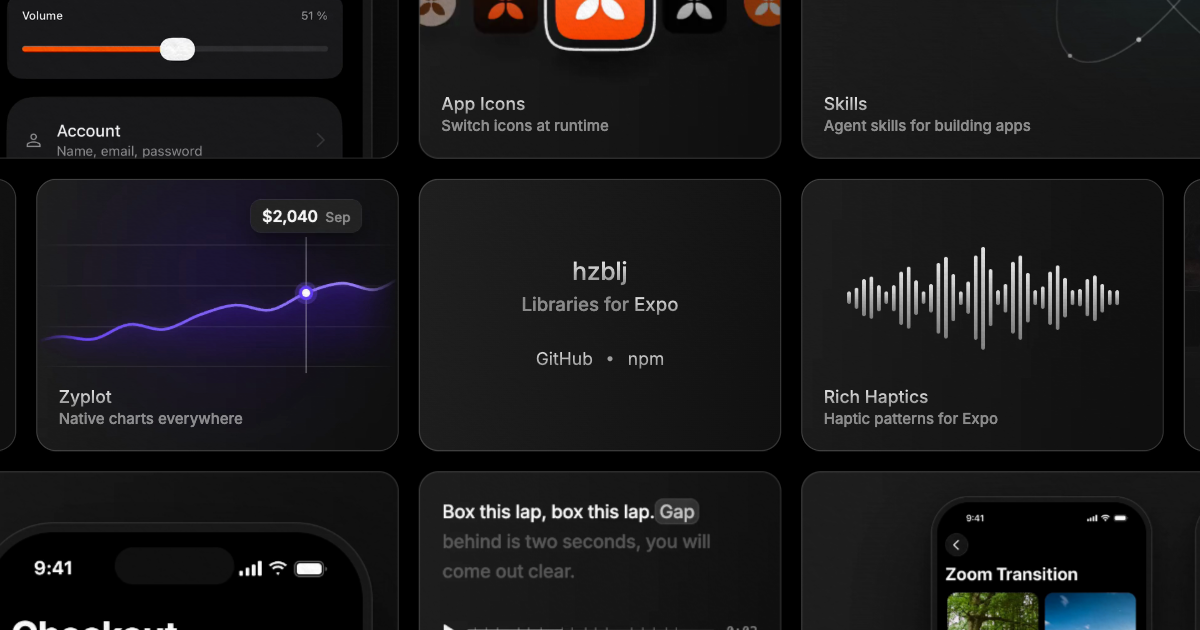
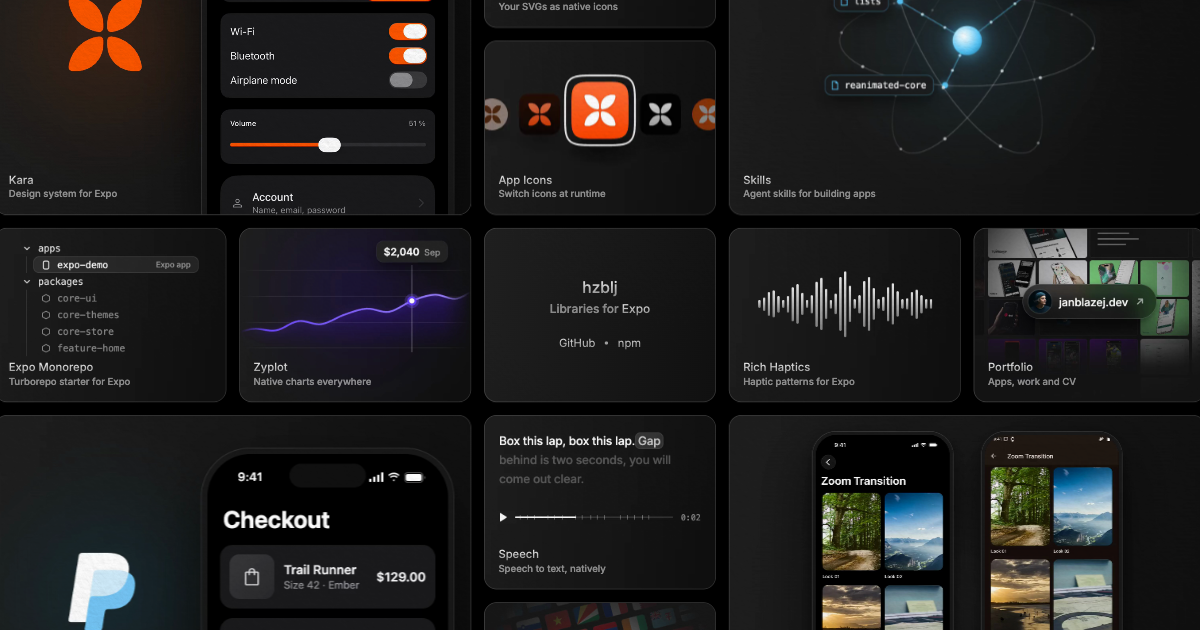
feat: Draw the link preview further out, so every corner card shows its subject

diff --git a/artwork/cards/og-image.html b/artwork/cards/og-image.html
@@ -6,9 +6,10 @@
     <link rel="stylesheet" href="libraries-grid.css" />
     <style>
       /* The site's link preview, the way the portfolio's is made: the grid as the
-         site draws it, closer in, held on the profile card with the cards
-         around it running off every edge. Built from the cards' own stills, so
-         it follows them when they are drawn again. */
+         site draws it, held on the profile card with the cards around it
+         running off every edge, far enough out that each big corner card shows
+         its subject. Built from the cards' own stills, so it follows them when
+         they are drawn again. */
       body {
         background: #000;
       }
@@ -26,7 +27,7 @@
     <script type="module">
       import {buildGrid} from './libraries-grid.js'
 
-      const SCALE = 1.25
+      const SCALE = 0.8
       const SIZE = {height: 630, width: 1200}
 
       const grid = document.querySelector('.grid')
